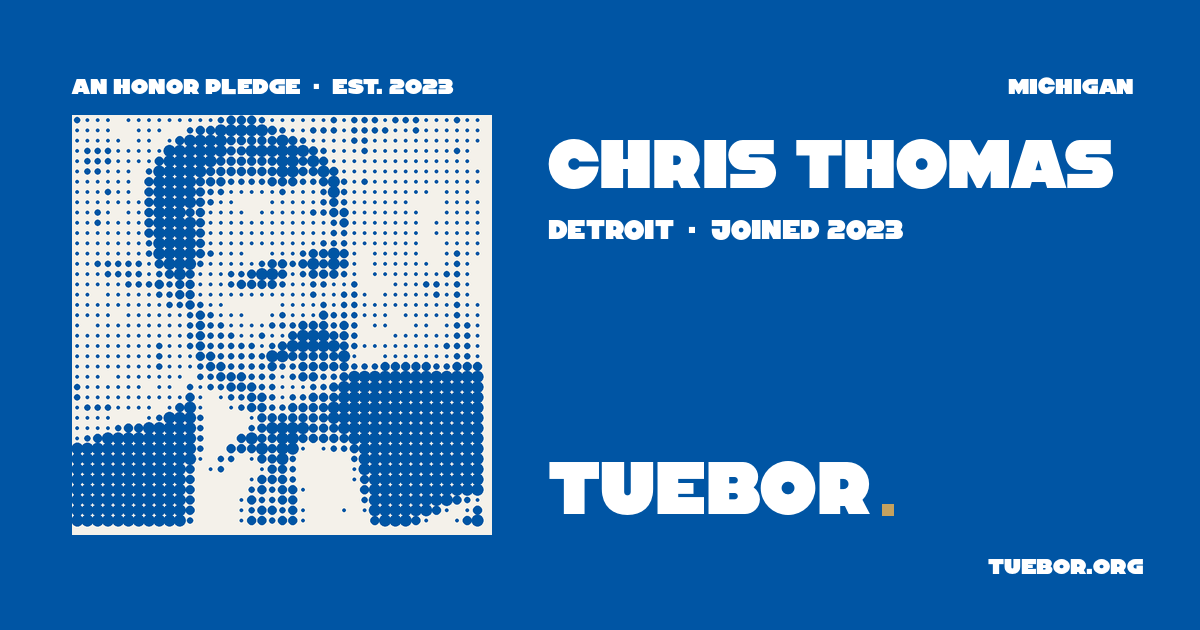
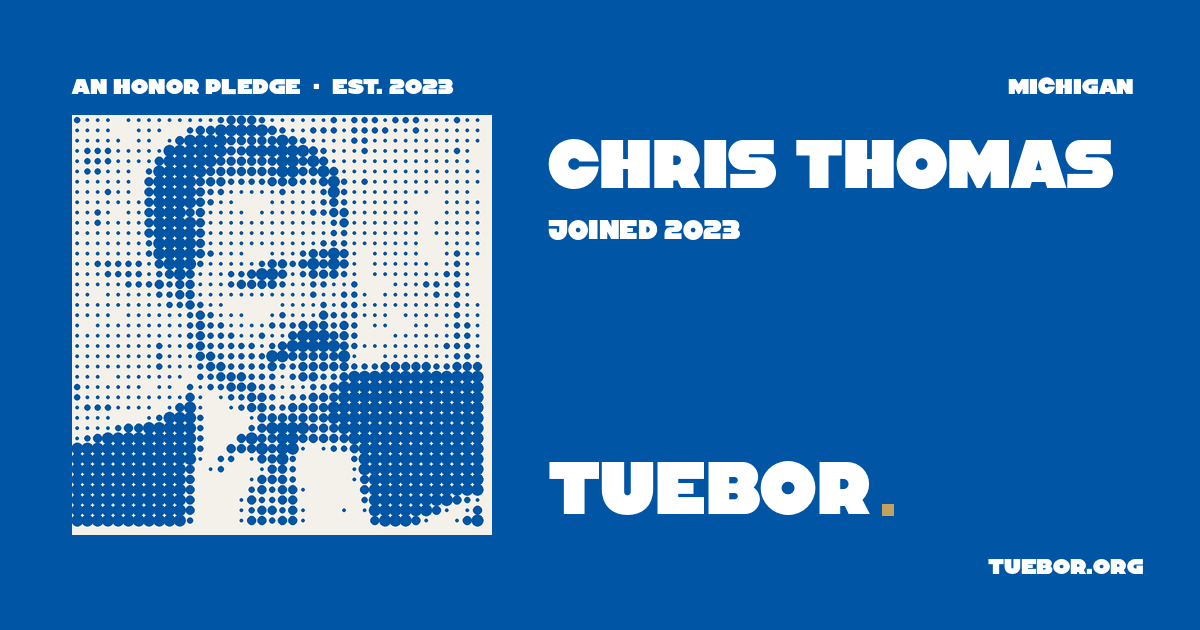
refine(og): drop city from pledgee OG images
Just name + joined year reads cleaner at thumbnail size.

Changed region(s): [[0.4625, 0.3317, 0.7708, 0.3921]]

diff --git a/assets/images/_ogimage_pledgee.py b/assets/images/_ogimage_pledgee.py
@@ -72,10 +72,9 @@ def make_og(pledgee: dict, halftone_path: Path, out_path: Path):
     name_y = py + 24
     draw.text((text_x, name_y - name_bbox[1]), name, font=font_name, fill=WHITE)
 
-    # Meta line: <city> · joined <year>
-    city = str(pledgee.get("city", ""))
+    # Meta line: joined <year>
     year = pledgee.get("year_joined", "")
-    meta = f"{city}  ·  JOINED {year}".upper()
+    meta = f"JOINED {year}".upper()
     font_meta = ImageFont.truetype(str(FONT_PATH), 26)
     meta_y = name_y + name_h + 24
     draw.text((text_x, meta_y), meta, font=font_meta, fill=WHITE_MUTED)
